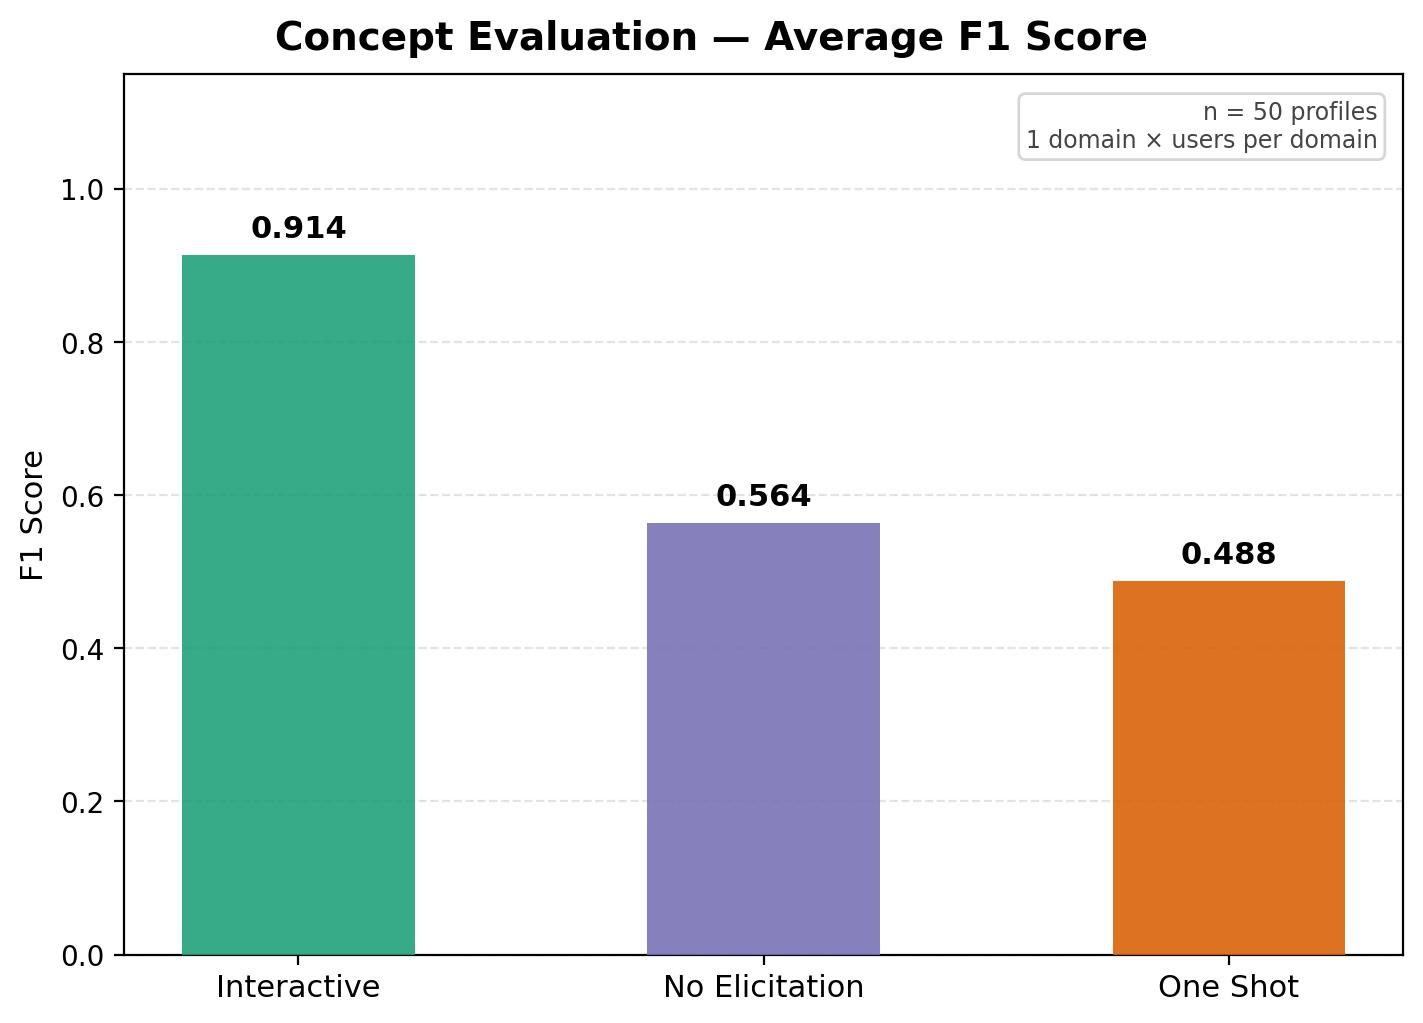
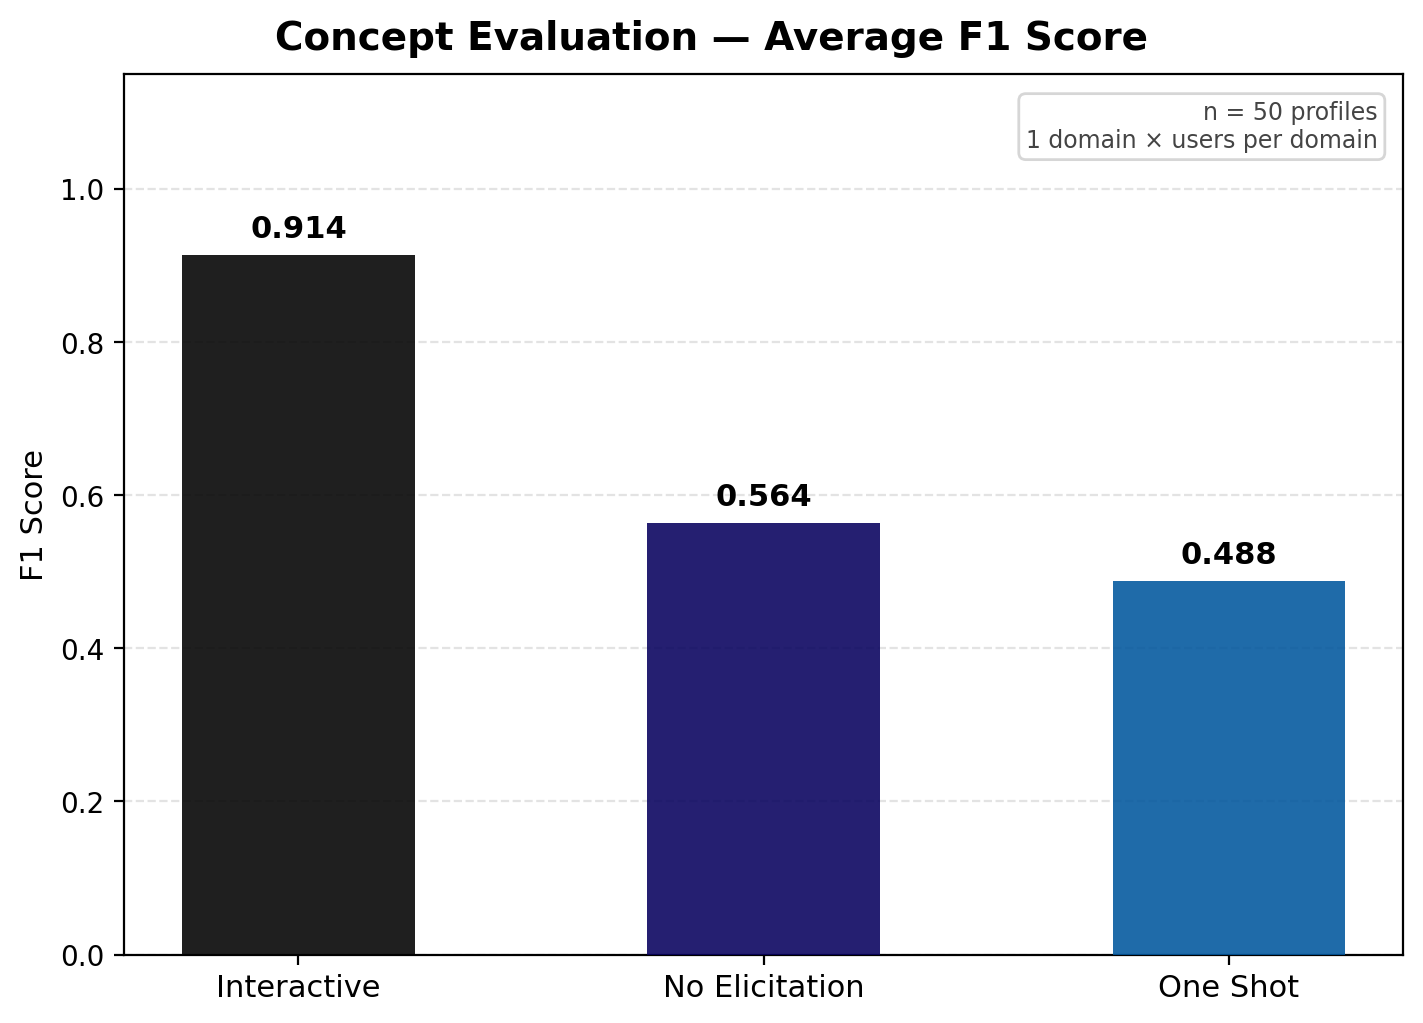
Chore: Removed unused method

Changed region(s): [[0.1237, 0.2424, 0.3092, 0.9394], [0.4329, 0.4848, 0.6184, 0.9394], [0.773, 0.5455, 0.9585, 0.9394]]

diff --git a/metaLoop/evaluation/main.py b/metaLoop/evaluation/main.py
@@ -1,6 +1,5 @@
 import json
 import os
-import re
 from dataclasses import dataclass
 from pathlib import Path
 import sys
@@ -123,11 +122,6 @@ def precision_recall_f1(expected: Set[str], predicted: Set[str]) -> tuple[float,
     return precision, recall, f1
 
 
-def evaluate_prediction(target: Set[str], predicted: Set[str]) -> tuple[float, float, float]:
-    precision, recall, f1 = precision_recall_f1(target, predicted)
-    return precision, recall, f1
-
-
 def read_sample_file(file_path: str | None) -> str:
     if not file_path:
         return ""
@@ -143,9 +137,6 @@ def read_sample_file(file_path: str | None) -> str:
     return resolved_path.read_text(encoding="utf-8", errors="ignore")
 
 
-
-
-
 def run_interactive(agent: MetamodelingAgent, profile: SimulatedUserProfile) -> MethodResult:
     user_llm = ProfileUserLLM(profile)
     result = agent.run_iterative(
@@ -158,7 +149,7 @@ def run_interactive(agent: MetamodelingAgent, profile: SimulatedUserProfile) -> 
         },
     )
     final_concepts = normalize(result.get("concepts", []))
-    precision, recall, f1 = evaluate_prediction(normalize(profile.target_concepts), final_concepts)
+    precision, recall, f1 = precision_recall_f1(normalize(profile.target_concepts), final_concepts)
     return MethodResult(
         "interactive",
         final_concepts,
@@ -174,7 +165,7 @@ def run_no_elicitation(agent: MetamodelingAgent, profile: SimulatedUserProfile) 
     state.update(gather_intent(state))
     state.update(decompose_concepts(state, agent.llm_client.invoke_json))
     predicted = normalize(state.get("concepts", []))
-    precision, recall, f1 = evaluate_prediction(normalize(profile.target_concepts), predicted)
+    precision, recall, f1 = precision_recall_f1(normalize(profile.target_concepts), predicted)
     transcript = [{"stage": "prompt", "question": profile.prompt, "answer": ""}]
     return MethodResult(
         "no_elicitation",
@@ -190,7 +181,7 @@ def run_one_shot(extractor: ConceptExtractor, profile: SimulatedUserProfile) -> 
     metamodel_text = generate_direct(profile.prompt)
     extracted = extractor.extract(profile.prompt, metamodel_text)
     predicted = normalize(extracted.get("concepts", []))
-    precision, recall, f1 = evaluate_prediction(normalize(profile.target_concepts), predicted)
+    precision, recall, f1 = precision_recall_f1(normalize(profile.target_concepts), predicted)
     transcript = [{"stage": "prompt", "question": profile.prompt, "answer": metamodel_text}]
     return MethodResult(
         "one_shot",

diff --git a/metaLoop/evaluation/plot_concept_eval.py b/metaLoop/evaluation/plot_concept_eval.py
@@ -39,7 +39,7 @@ def plot_summary(summary: dict[str, dict[str, float]], output_path: Path, total_
     methods = ["interactive", "no_elicitation", "one_shot"]
     labels = ["Interactive", "No Elicitation", "One Shot"]
     x_positions = list(range(len(methods)))
-    colors = ["#1b9e77", "#7570b3", "#d95f02"]
+    colors = ["#000000", "#06005d", "#00569D"]
 
     fig, ax = plt.subplots(figsize=(7, 5), constrained_layout=True)
     fig.suptitle("Concept Evaluation — Average F1 Score", fontsize=14, fontweight="bold")
